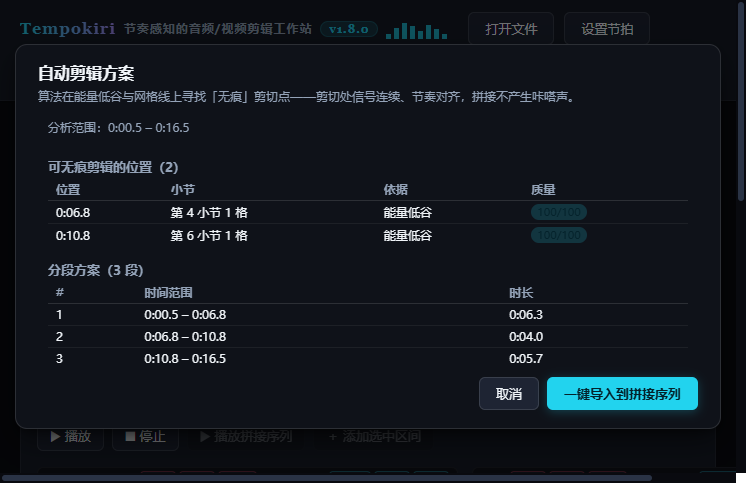
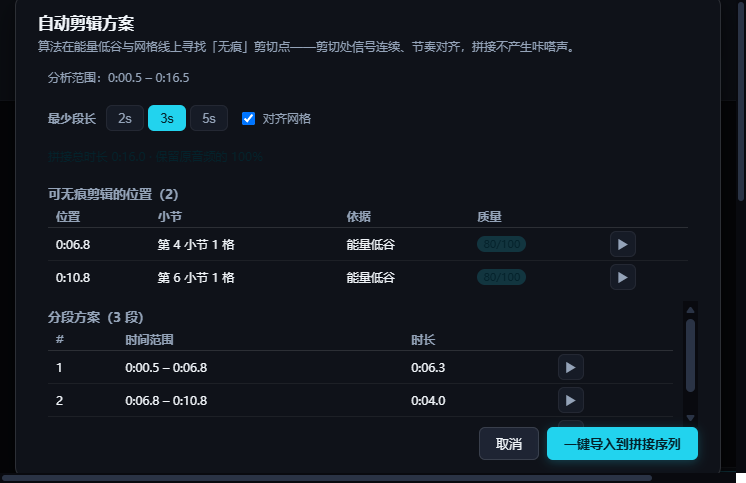
docs: add auto-cut design doc, fix README dead refs, align test lists

diff --git a/docs/superpowers/specs/2026-08-19-auto-cut-design.md b/docs/superpowers/specs/2026-08-19-auto-cut-design.md
@@ -1,0 +1,91 @@
+# 设计：自动剪辑（无痕剪切点检测 + 方案导入）
+
+> 目标版本：v1.8.0（核心）→ v1.9.0（增强）。
+> 状态：已实施并验证（145/145 单测全绿、无头 Edge 冒烟 SMOKE OK；见 CLAUDE.md 版本历史）。
+
+## 背景与问题
+
+工作站原有工作流：用户手动双击小节选段 → 添加序列 → 拼接试听 → 导出。对一首 3 分钟的歌曲，手动挑选剪切点耗时且依赖听感经验；剪切位置选得不好（切断音符/瞬态、落在能量高处），拼接处会产生咔嗒声或节奏断裂。
+
+目标：**自动识别可"无痕剪辑"的位置**（剪切点），给出分段方案，一键导入拼接序列。无痕拼接的条件与人工经验一致——剪切处信号连续、能量低谷、节奏对齐。
+
+## 无痕剪切定义（三条件）
+
+1. **能量低谷**：剪切点位于乐句间隙/呼吸处，避免切断音符与瞬态；
+2. **信号连续**：剪切点处波形幅度小、斜率小（过零附近），拼接瞬间无幅度跳变；
+3. **节奏对齐**：存在节拍网格时，剪切点优先对齐网格线（小节线 > 拍线，半径 120ms），节奏连贯。
+
+## 算法设计（src/autoCut.js，纯函数，UMD）
+
+```
+pcm(22050) → energyEnvelope（积分图 O(n) RMS 包络）
+           → findValleys（平台 span 极小值 + 两侧峰谷深，5% 显著性阈值滤伪谷）
+           → valleyCenter（谷底平台中心：静音段取区间中央而非边缘）
+           → locateCutPoint（谷内最小差分定位：|Δx| + 0.5|x| + 中心偏置）
+           → gridAlign（可选：小节线优先，其次拍线，半径 120ms）
+           → scoreCut（三因子加权 0-100）
+           → buildPlan（范围过滤 + 过短段循环合并 → 分段方案）
+```
+
+| 步骤 | 要点 |
+|---|---|
+| energyEnvelope | `win=1024, hop=256`（≈46ms/11.6ms）；平方和积分图，每窗 O(1) |
+| findValleys | 局部极小（含平台）；谷深 = min(左右峰) - 谷值，平台 span 外扩 5 点取峰；谷深 < 全局最大值 5% 的丢弃（正弦持续段的微波动不致伪谷）；相邻平台合并 |
+| locateCutPoint | 搜索半径 win×0.75；成本 = `|pcm[i+1]-pcm[i]| + 0.5·|pcm[i]| + 1e-4·|i-center|`（最后一项使静音平台取中心） |
+| gridAlign | 网格吸附半径 120ms；小节线优先于拍线（bars 先于 beatTimes 匹配） |
+| scoreCut | 能量分 50·depth/maxDepth + 连续分 30/(1+cost·8) + 网格分 +20（bar/beat），clamp [1,100] |
+| buildPlan | 相邻剪切点间隔默认 = 最小段长（防碎切）；过短段循环合并（删除使任一段 < minSegSec 的剪切点）；无保留剪切点返回空方案 |
+
+**参数**：`minSegSec`（最少段长，默认 3s）、`alignGrid`（对齐开关=是否传 grid）、`minGapSec`（默认取 minSegSec）、`maxCuts=14`、`searchStart/searchEnd`（分析范围，默认全曲/网格覆盖区）。
+
+**评分设计意图**：原 v1.8.0 评分仅 `20+80·depth/maxDepth`（谷深归一化），两个同深谷无法区分；v1.9.0 改为三因子加权，连续度与网格对齐参与评分，展示更贴合"无痕质量"，且 scoreCut 为纯函数便于单测调参。
+
+## 前端设计（src/autoCutModal.js + main.js 接线）
+
+- 工具栏「✂ 自动剪辑」（btnAutoCut）→ `runAutoCut`：视频未提取音轨时先采集 → `analyzeAutoCutPlan`（同步分析）→ 打开方案弹窗。
+- 弹窗内容：
+  - 标题/副标题 + 分析范围行（网格覆盖范围 or 全曲）；
+  - **参数行（v1.9.0）**：最少段长 2s/3s/5s + 「对齐网格」开关（无网格时隐藏）；变更即时调 `onAnalyze` 重算并更新（无需确认按钮）；
+  - **摘要行（v1.9.0）**：拼接总时长 + 保留原音频百分比；
+  - 剪切点表：位置 / 小节（timeToBarCell）/ 依据（对齐小节线｜对齐拍线｜能量低谷）/ 质量分（0-100 分级着色）/「▶ 试听」（前后 2s）；
+  - 分段方案表：# / 时间范围 / 时长 /「▶ 试听」（整段）；
+  - 一键导入（替换现有序列前弹确认）/ 取消。
+- 试听：`previewAutoCutRange(start, end)` 播放原曲区间（音频/视频路径复用，先停旧播放，状态栏"试听中"），复用 `playAudioSegment`/`playVideoSegment`。
+- 波形标记：剪切点橙色实线 + 顶部菱形（三主题 `cutLine` 色），弹窗取消/关闭/导入时清除（`state.cutPoints`）。
+- 导入：序列项 `startBar/endBar=null`（时间为主，与手动添加一致），经 `saveWorkspace` 持久化；有网格时范围限定在网格覆盖区保证 `timeToBarCell` 有效（anyInvalid 不误判）。
+
+## 迭代回顾（v1.8.0 → v1.9.0）
+
+| 版 | 内容 |
+|---|---|
+| 1.8.0 | 核心链路：算法 + 弹窗 + 导入 + 波形标记；参数固定 3s/强制对齐 |
+| 1.9.0 | 方案参数化（即时重分析）、评分重做（scoreCut）、剪切点/段试听、摘要行、无方案提示（showEmpty） |
+
+## 测试用例设计
+
+`tests/test_autoCut.js`（13 个，合成信号：正弦段 + 静音段交替 fixture）：
+
+| 编号 | 测试 | 预期 |
+|---|---|---|
+| 1 | energyEnvelope 恒定幅度 | RMS=0.5（±1e-6） |
+| 2 | energyEnvelope 静音 | 全 0 且窗数正确 |
+| 3 | findValleys 谷底平台中心 | 静音段 2.0-2.5s → 中心 ≈2.25s |
+| 4 | findCutPoints 无网格 | 静音段内 2 点，reason=valley，score∈[1,100] |
+| 5 | findCutPoints 网格对齐 | offset=2.25 网格 → 吸附小节线（bar/2.25s） |
+| 6 | gridAlign 半径与优先级 | 2.25 不吸附；2.05→bar；2.4→beat |
+| 7 | buildPlan 默认方案 | 3 段精确衔接，末段=范围终点 |
+| 8 | buildPlan 碎切合并 | 0.5s 静音段 < minSegSec → 无方案 |
+| 9 | buildPlan 范围限定 | searchStart 过滤左侧谷 |
+| 10 | buildPlan 无谷 | 空方案 |
+| 11 | scoreCut 三因子加权 | 100/75/56/76 四档 + 域下限 1 |
+| 12 | buildPlan 最少段长分档 | 1.5s→3 段；2.5s→0 段 |
+| 13 | buildPlan 对齐开关 | grid=null → 全 valley |
+
+浏览器冒烟（`tools/smoke_autoCut.mjs`，无头 Edge + CDP）：无网格/有网格两场景——方案弹窗、参数切换重分析（3 段→2 段）、试听、摘要、替换确认、导入、波形标记、拼接播放全链路。
+
+## 验收标准
+
+- 单测 145/145 全绿、`python build.py` 无文案缺失/冗余警告；
+- 无头 Edge 冒烟 SMOKE OK；
+- 交互符合项目确认制：导入前替换需确认、取消/关闭清除剪切点标记；
+- 已知边界：普通曲目（无长停顿）剪切点过密时被最小段长约束过滤，弹窗提示"未找到合适的剪辑位置"（属预期行为，非缺陷）。

diff --git a/README.md b/README.md
@@ -63,13 +63,14 @@ python build.py
 │   ├── main.js         装配层：状态、文件处理、播放、导出流程
 │   ├── analysis.js     核心算法：FFT / 频谱通量 / BPM / 偏移 / 网格
 │   ├── autoCut.js      自动剪辑：能量包络 / 谷检测 / 无痕剪切点定位 / 分段方案
+│   ├── autoCutModal.js 自动剪辑方案弹窗（参数 / 试听 / 摘要 / 一键导入）
 │   ├── render.js       波形与网格渲染
 │   ├── sequence.js     序列项、小节换算、拼接元数据
 │   ├── export.js       拼接渲染 + WAV/MP3 编码
 │   ├── audio.js        音频解码/视频音轨提取
 │   ├── ui.js           序列列表渲染、播放态高亮
-│   └── modal.js / autoCutModal.js / exportModal.js / videoExport.js / store.js / footer.js / interact.js / unitInput.js / log.js
-├── tests/              Node 单元测试（analysis/export/sequence/audio/render/ui/store/footer/i18n/settings）
+│   └── modal.js / exportModal.js / videoExport.js / store.js / footer.js / interact.js / unitInput.js / metaModal.js / metadata.js / settings.js
+├── tests/              Node 单元测试（analysis/export/sequence/audio/render/ui/store/footer/i18n/settings/metadata/videoExport/autoCut）
 ├── lib/                lame.min.js（MP3）、mp4box.global.js（demux）、mp4-muxer.js（合成）
 ├── examples/           测试素材（合成音频/视频）与生成脚本
 ├── docs/               设计文档

diff --git a/CLAUDE.md b/CLAUDE.md
@@ -28,7 +28,7 @@ VERSION              版本号单源（build.py 注入页脚）
 ```bash
 python -m http.server 8734            # 开发伺服（浏览器缓存 src/*.js 时用无痕/禁用缓存）
 python build.py                       # 打包 → dist/tempokiri-workstation.html
-node --test tests/test_*.js   # 单元测试（analysis/export/sequence/audio/render/ui/store/footer/settings/i18n）
+node --test tests/test_*.js   # 单元测试（analysis/export/sequence/audio/render/ui/store/footer/settings/i18n/metadata/videoExport/autoCut）
 ```
 
 ## 关键约定
@@ -79,5 +79,5 @@ node --test tests/test_*.js   # 单元测试（analysis/export/sequence/audio/re
 
 ## 深入文档
 
-- 设计文档：`docs/superpowers/specs/`（工作站设计 + 优化计划，含 CLI→工作站的升级背景）
+- 设计文档：`docs/superpowers/specs/`（工作站设计、优化计划、自动剪辑设计 2026-08-19-auto-cut-design.md）
 - 产品文档（内嵌页脚弹窗）：`README.md`
